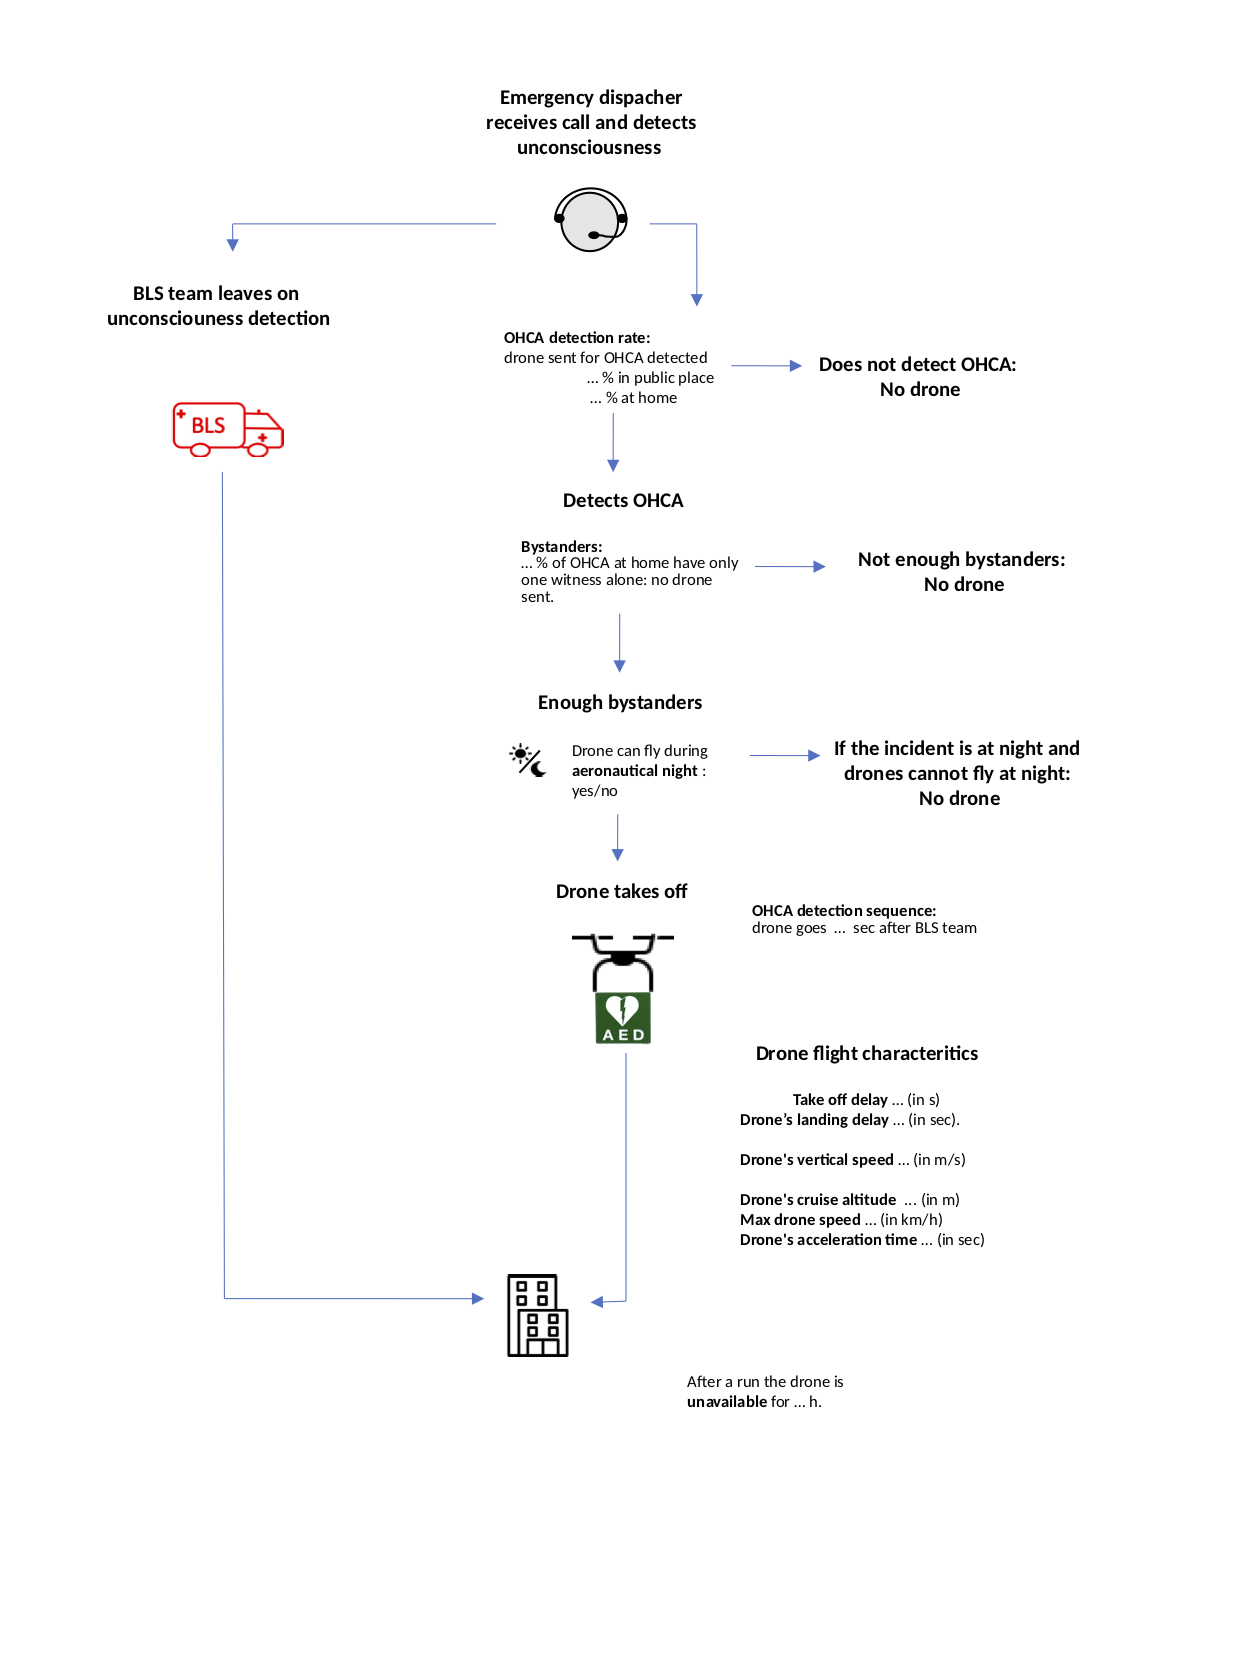
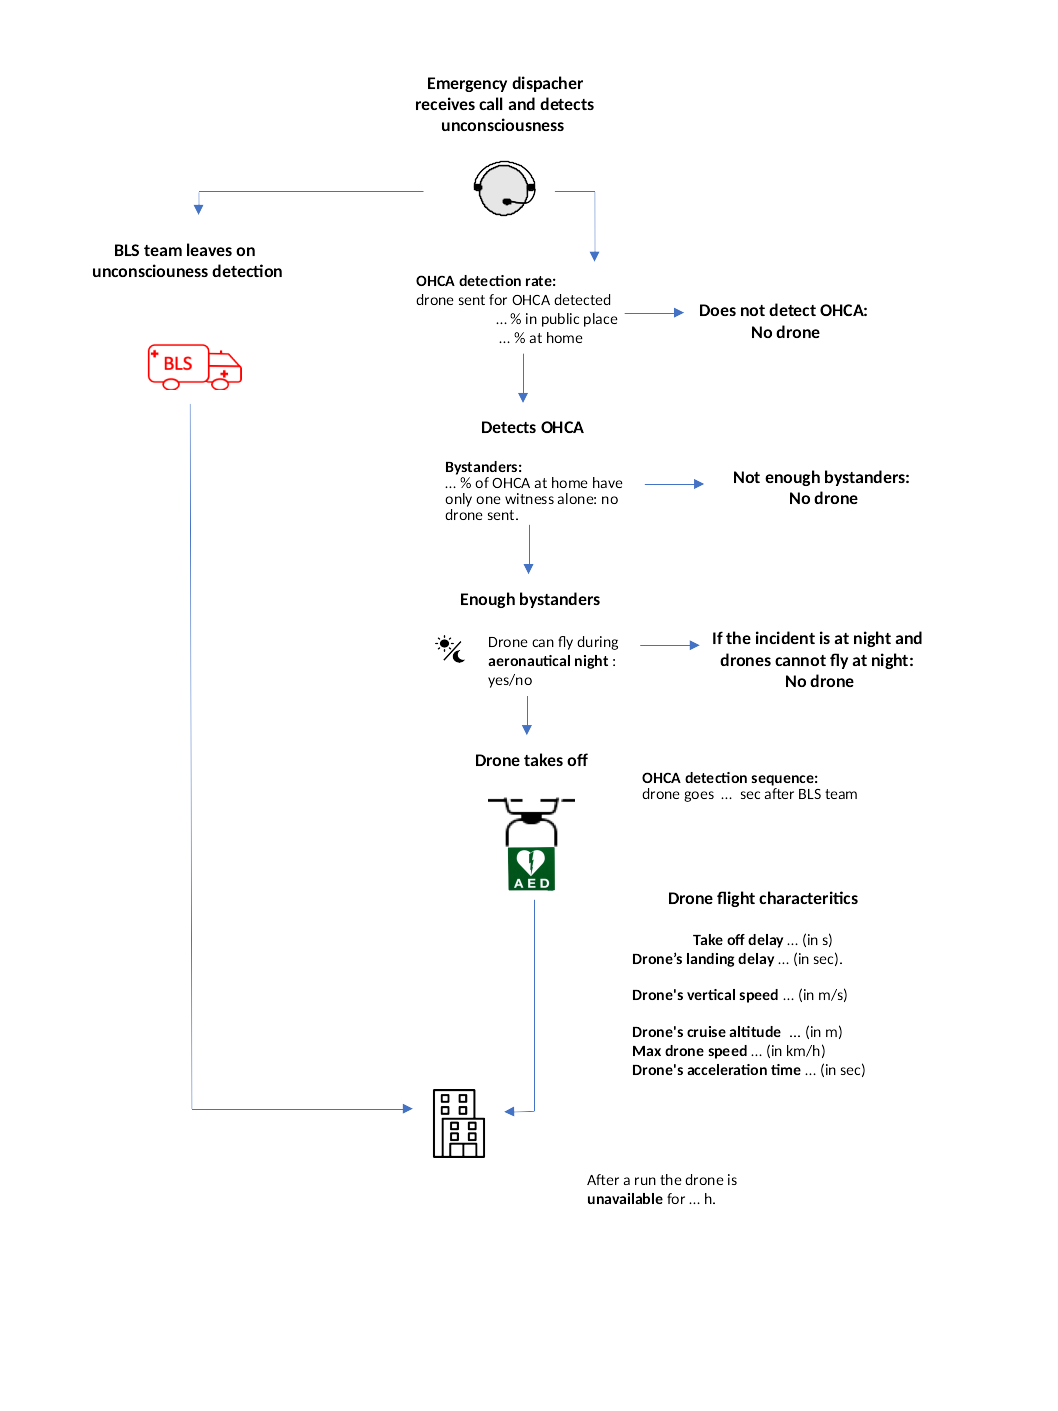
add French version for simulation desc tab

diff --git a/layouts.py b/layouts.py
@@ -9,7 +9,7 @@ import drones
 _POSITIONS = list(drones.STARTING_POINTS.keys())
 
 
-def create_tabs_layout():
+def create_tabs_layout(simu_desc_file):
     return dbc.Container(
         dbc.Container(id='app-control-tabs', className='control-tabs', children=[
             dbc.Tabs(id='app-tabs', children=[
@@ -72,7 +72,7 @@ def create_tabs_layout():
                     children=dbc.Container(className='control-tab', children=[
                         html.H4(className='datasets',
                                 children=_('Rescue chain: BLS teams vs drones')),
-                        html.Img(src='../../assets/tab-layout2.png', width='1000px'),
+                        html.Img(src=simu_desc_file, width='1000px'),
                     ]),
                 ),
 
@@ -392,6 +392,9 @@ def create_both_graphs(name, suffix='', style=None):
 
 
 def create(lang):
+    desc_file = '../../assets/tab-layout2.png'
+    if lang == 'fr':
+        desc_file = '../../assets/tab-layout2fr.png'
     lang = gettext.translation('messages', localedir='locales', languages=[lang], fallback=True)
     lang.install()
     return dbc.Container(children=[
@@ -410,6 +413,7 @@ def create(lang):
             style={'display': 'flex', 'justify-content': 'space-between'}
         ),
         dbc.Container(
-            id='vp-control-tabs', className='control-tabs', children=[create_tabs_layout()],
+            id='vp-control-tabs', className='control-tabs',
+            children=[create_tabs_layout(desc_file)],
         ),
     ])
